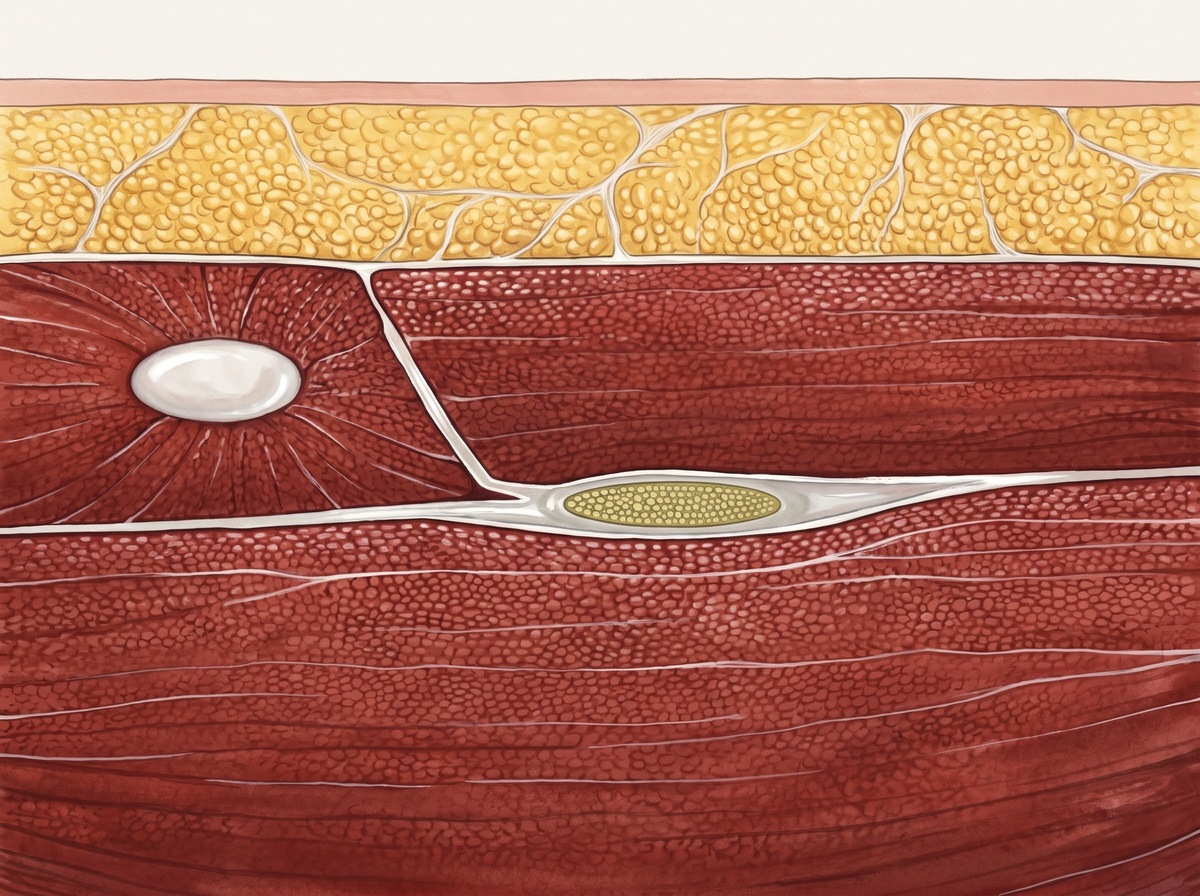
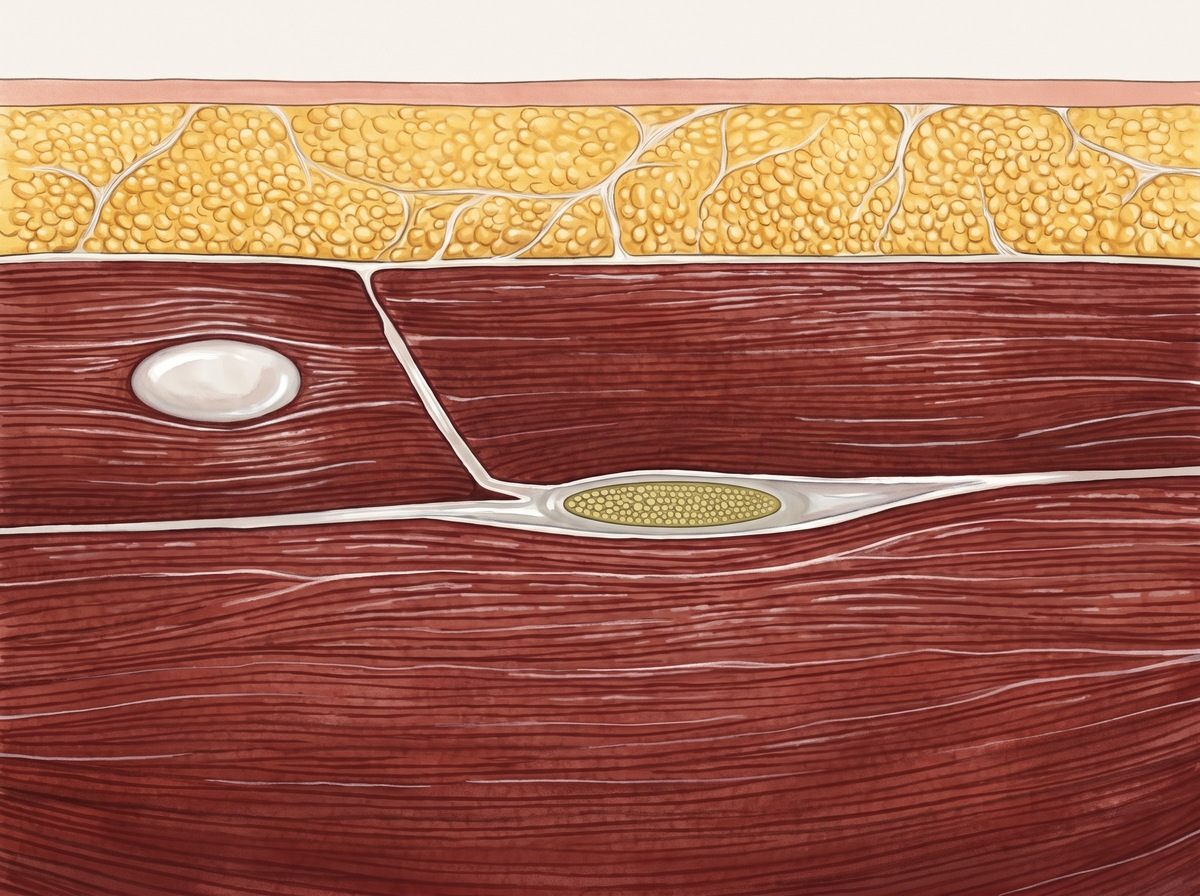
Ship transgluteal section (fibre repair) and TAP positioning (owner approved); every non-skipped slot now has an image; status page updated

Changed region(s): [[0.0, 0.2188, 1.0, 1.0], [0.37, 0.9688, 0.555, 1.0], [0.1542, 0.9375, 0.3083, 1.0]]

diff --git a/visuals/STATUS.md b/visuals/STATUS.md
@@ -1,6 +1,6 @@
 # Procedure Images: Status
 
-Last updated: 2026-10-15. Sural, ESP, chest tube and thoracentesis plates shipped; last group (tibial, transgluteal sciatic, TAP, ulnar) next.
+Last updated: 2026-10-15. Every slot outside the skip lists now has an owner-approved image.
 
 How to make an image: `PLAYBOOK.md`. Live slot list: `python3 scripts/pq.py visuals`. Trust that over this page if they disagree.
 
@@ -10,10 +10,10 @@ Every slot in `procedures.json` either has an owner-approved image or is on a sk
 
 ## Progress
 
-- **69 slots bundled, 20 empty.**
+- **77 slots bundled, 12 empty (all on the skip lists).**
 - **Skip; the owner adds real images (11):** ultrasound and rhythm strips (`aline_us_short_axis`, `ij_probe_orientation`, `cvc_wire_confirmation`, `ficb_subfascial_spread`, `fb_us_appearance`, `knee_us_effusion`, `pericardiocentesis_approach`, `pigtail_us_effusion`, `tvp_capture_confirmation`, `usgiv_short_axis`, `usgiv_needle_tracking`).
 - **Skip as low value unless asked (1):** `abscess_technique`.
-- **That leaves 8 slots to make.**
+- **Nothing left to make.** New slots added to `procedures.json` start the workflow again.
 
 ### Shipped recently
 
@@ -25,6 +25,10 @@ Every slot in `procedures.json` either has an owner-approved image or is on a sk
 | Superficial cervical plexus | 2026-10-14 | sideload-35 | Section in the house style; probe at mid-SCM (mastoid-clavicle midpoint, NYSORA). |
 | Superior alveolar | 2026-10-14 | sideload-35 | Canine as the default tooth. |
 | Superficial peroneal | 2026-10-15 | sideload-36 | Positioning: Gemini removed the equipment from the owner's photo; the photo's own probe was moved into place in code (`place_probe.py`) and the needle is code-drawn. Needle from anterior per NYSORA. |
+| Tibial | 2026-10-15 | sideload-40 | Mirror of the sural plates on the medial side; needle from the Achilles end per NYSORA. |
+| TAP | 2026-10-15 | sideload-40/41 | Photo: probe rotated in Gemini to transverse, in plane with the needle (owner); dashed mid-axillary line in code. |
+| Ulnar | 2026-10-15 | sideload-40/41 | Photo uses the approved median arm as a style reference. |
+| Transgluteal / proximal sciatic | 2026-10-15 | sideload-40/41 | Probe below the gluteal fold (owner); section redrawn at the subgluteal level after NYSORA Fig-6 (no bones in view). |
 | Sural | 2026-10-15 | sideload-38/39 | Section redrawn to true scale after independent review (malleolus subcutaneous); needle from anterior per NYSORA. |
 | Thoracic ESP | 2026-10-15 | sideload-38 | Positioning: gloved hand added in Gemini (owner). |
 | Thoracentesis site | 2026-10-15 | sideload-39 | ESP back with equipment removed, re-posed leaning forward over a table (record position); rib inset cropped from the chest tube painting. |
@@ -35,12 +39,9 @@ Every slot in `procedures.json` either has an owner-approved image or is on a sk
 
 - Nothing waiting on a painting.
 
-### Not started (A–Z order, both slots each unless noted)
+### Not started
 
-1. Tibial nerve block (**next**)
-2. Transgluteal / proximal sciatic block
-3. Transversus abdominis plane (TAP)
-4. Ulnar nerve block
+- None.
 
 ## Working notes that hold across sessions
 
